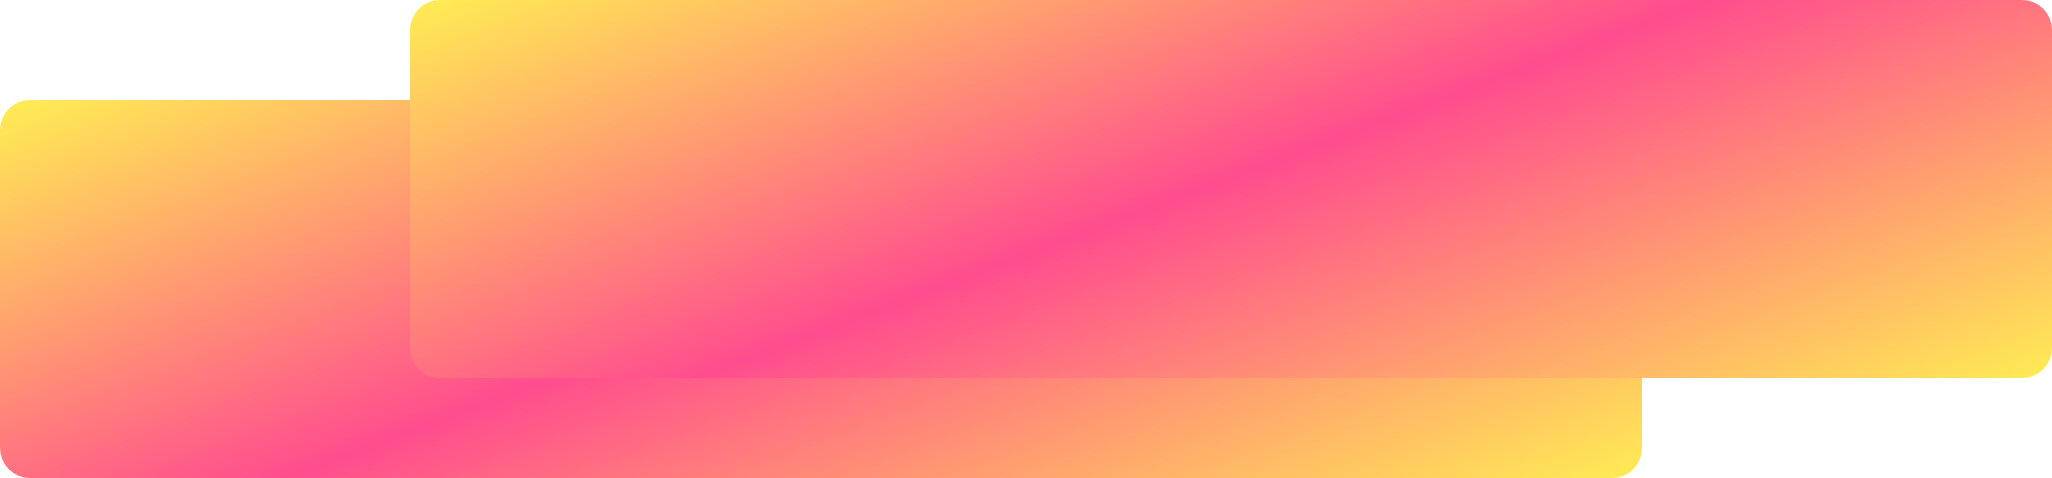
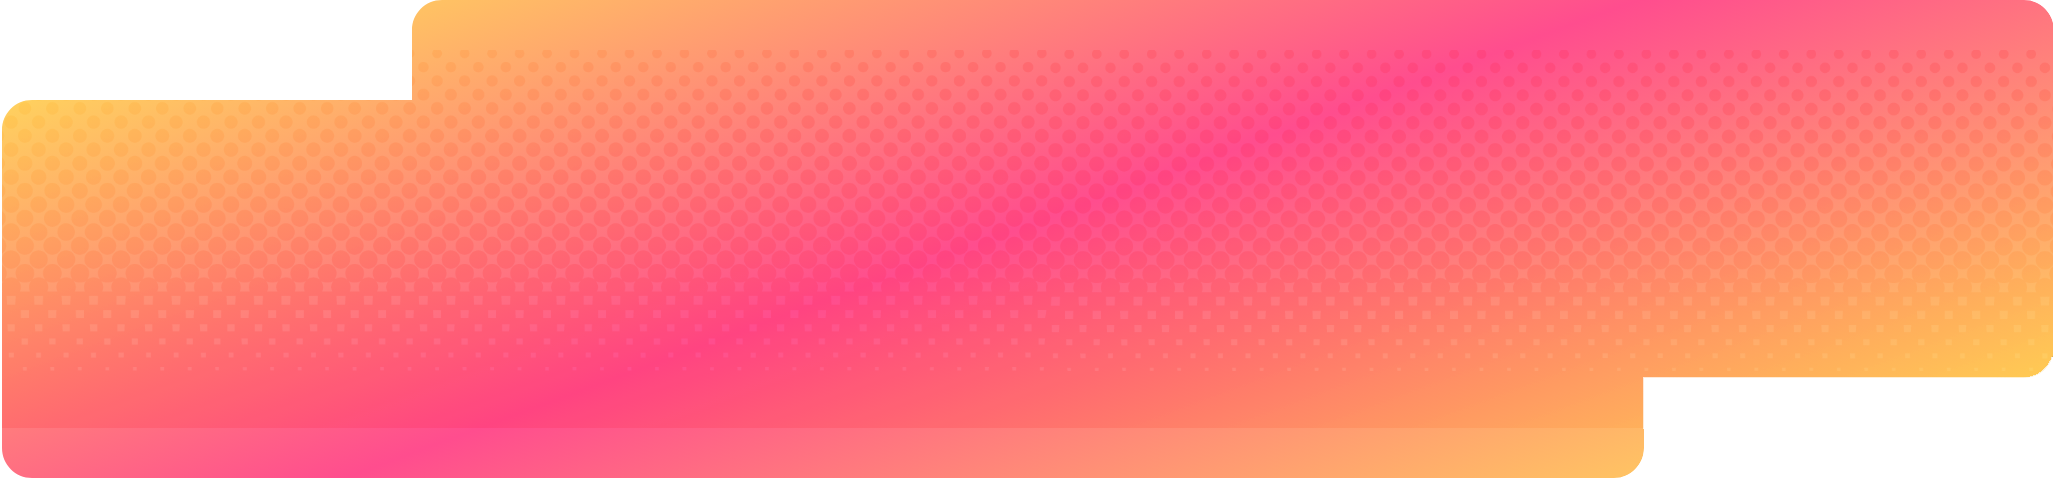
sec5_bg修正

Changed region(s): [[0.0, 0.0, 0.6238, 0.7908], [0.3431, 0.0293, 1.0, 1.0]]

diff --git a/public/js/slick.js b/public/js/slick.js
@@ -1,7 +1,1 @@
-$('.slick01').slick({
-    autoplay: true,
-    dots: true,
-    arrows: true,
-    slidesToShow: 5,
-    slidesToScroll: 1,
-});
+$('#myCarousel').carousel();

diff --git a/public/css/app.css b/public/css/app.css
@@ -806,6 +806,7 @@ section.top_section_2 {
 }
 .contact_name {
     width: 15vw;
+    margin: 0.8vw 0 0 2vw;
 }
 .contact_text, .contact_textarea {
     padding:0.7vw 1.2vw;

diff --git a/resources/views/slicktest.blade.php b/resources/views/slicktest.blade.php
@@ -3,15 +3,6 @@
 
 @section('content')
 
-<div class="page_title">提携クリニック</div>
-
-<section id="section_1" class="coop_section1 coop">
-    <div>
-        <div class="img_wrapper"><img src="{{ asset('img/cooperation_bg.png')}}"></div>
-        <div class="img_btn"><img src="{{ asset('img/cooperation_btn.png')}}"></div>
-    </div>
-</section>
-
 <section id="section_2" class="top_section_2 coop_common">
     <div class="coop_text">
         <h3>ドリーム整形外科</h3>
@@ -37,28 +28,51 @@
     </div>
 </section>
 
-<section id="section_2" class="top_section_2 coop_common">
-    <div class="coop_text">
-        <h3>リエンジャン美容外科</h3>
-        <p>
-            2003年から美容整形・皮膚科を経営しているアジア最大のネットワーク病院です。<br>
-            6種類の専門センターを運営しており、幅広い分野別の専門医があなたの理想を叶えます。<br>
-            詳しくは<a href="https://jplienjang.com/">HP</a>へ。
-        </p>
+
+<div id="myCarousel" class="carousel slide" data-ride="carousel">
+
+    <div class="carousel-inner">
+        <div class="carousel-item active">
+            <img src="{{ asset('img/sec2_list8.png')}}">
+            <div class="carousel-caption">
+                <h3>チャン·ヨンウ院長</h3>
+            </div>
+        </div>
+        <div class="carousel-item">
+            <img src="{{ asset('img/sec2_list9.png')}}">
+            <div class="carousel-caption">
+                <h3>キム·ジョンベ医師</h3>
+            </div>
+        </div>
+        <div class="carousel-item">
+            <img src="{{ asset('img/sec2_list10.png')}}">
+            <div class="carousel-caption">
+                <h3>チェ・サンロク医師</h3>
+            </div>
+        </div>
+        <div class="carousel-item">
+            <img src="{{ asset('img/sec2_list11.png')}}">
+            <div class="carousel-caption">
+                <h3>チェ・サンロク医師</h3>
+            </div>
+        </div>
+        <div class="carousel-item">
+            <img src="{{ asset('img/sec2_list12.png')}}">
+            <div class="carousel-caption">
+                <h3>コ·ヒョソン医師</h3>
+            </div>
+        </div>
     </div>
-    <div class="img_wrapper">
-        <img src="{{ asset('img/sec2_bg2.png') }}">
-    </div>
-    <div class="list_wrapper">
-        <ul class="sec2_list">
-            <li><img src="{{ asset('img/sec2_list8.png')}}"><h3>チャン·ヨンウ院長</h3></li>
-            <li><img src="{{ asset('img/sec2_list9.png')}}"><h3>キム·ジョンベ医師</h3></li>
-            <li><img src="{{ asset('img/sec2_list10.png')}}"><h3>チェ・ウォンイル医師</h3></li>
-            <li><img src="{{ asset('img/sec2_list11.png')}}"><h3>チェ・サンロク医師</h3></li>
-            <li><img src="{{ asset('img/sec2_list12.png')}}"><h3>コ·ヒョソン医師</h3></li>
-        </ul>
-    </div>
-</section>
+    <a class="carousel-control-prev" href="#myCarousel" role="button" data-slide="prev">
+        <span class="carousel-control-prev-icon" aria-hidden="true"></span>
+        <span class="sr-only">前へ</span>
+    </a>
+    <a class="carousel-control-next" href="#myCarousel" role="button" data-slide="next">
+        <span class="carousel-control-next-icon" aria-hidden="true"></span>
+        <span class="sr-only">次へ</span>
+    </a>
+    
+</div>
 
 <p class="footer">Copyright（C）Beauty Support All rights reserved.</p>
 

diff --git a/resources/views/layouts/app.blade.php b/resources/views/layouts/app.blade.php
@@ -6,7 +6,7 @@
         <meta name="viewport" content="width=device-width,initial-scale=1.0,user-scalable=yes" />
 
         <link rel="icon" type="image/png" href="{{ asset('img/favicon.ico') }}">
-        <link rel="stylesheet" href="https://stackpath.bootstrapcdn.com/bootstrap/4.2.1/css/bootstrap.min.css">
+        <link rel="stylesheet" href="https://cdn.jsdelivr.net/npm/bootstrap@5.3.0/dist/css/bootstrap.min.css">
         <link rel="stylesheet" href="https://fonts.googleapis.com/css2?family=Devanagari:wght@600&amp;display=swap">
         <link href="https://fonts.googleapis.com/css2?family=Devanagari:wght@400;600&display=swap" rel="stylesheet">
         <link rel="stylesheet" type="text/css" href="https://cdn.jsdelivr.net/npm/slick-carousel@1.8.1/slick/slick.css">
@@ -160,6 +160,7 @@
     @endif
 
     <script src="https://cdn.jsdelivr.net/npm/slick-carousel@1.8.1/slick/slick.min.js"></script>
+    <script src="https://cdn.jsdelivr.net/npm/bootstrap@5.3.0/dist/js/bootstrap.bundle.min.js"></script>
     <script src="{{ asset('js/app_sp.js') }}"></script>
     <script src="{{ asset('js/slick.js') }}"></script>
     <script type="text/javascript">
